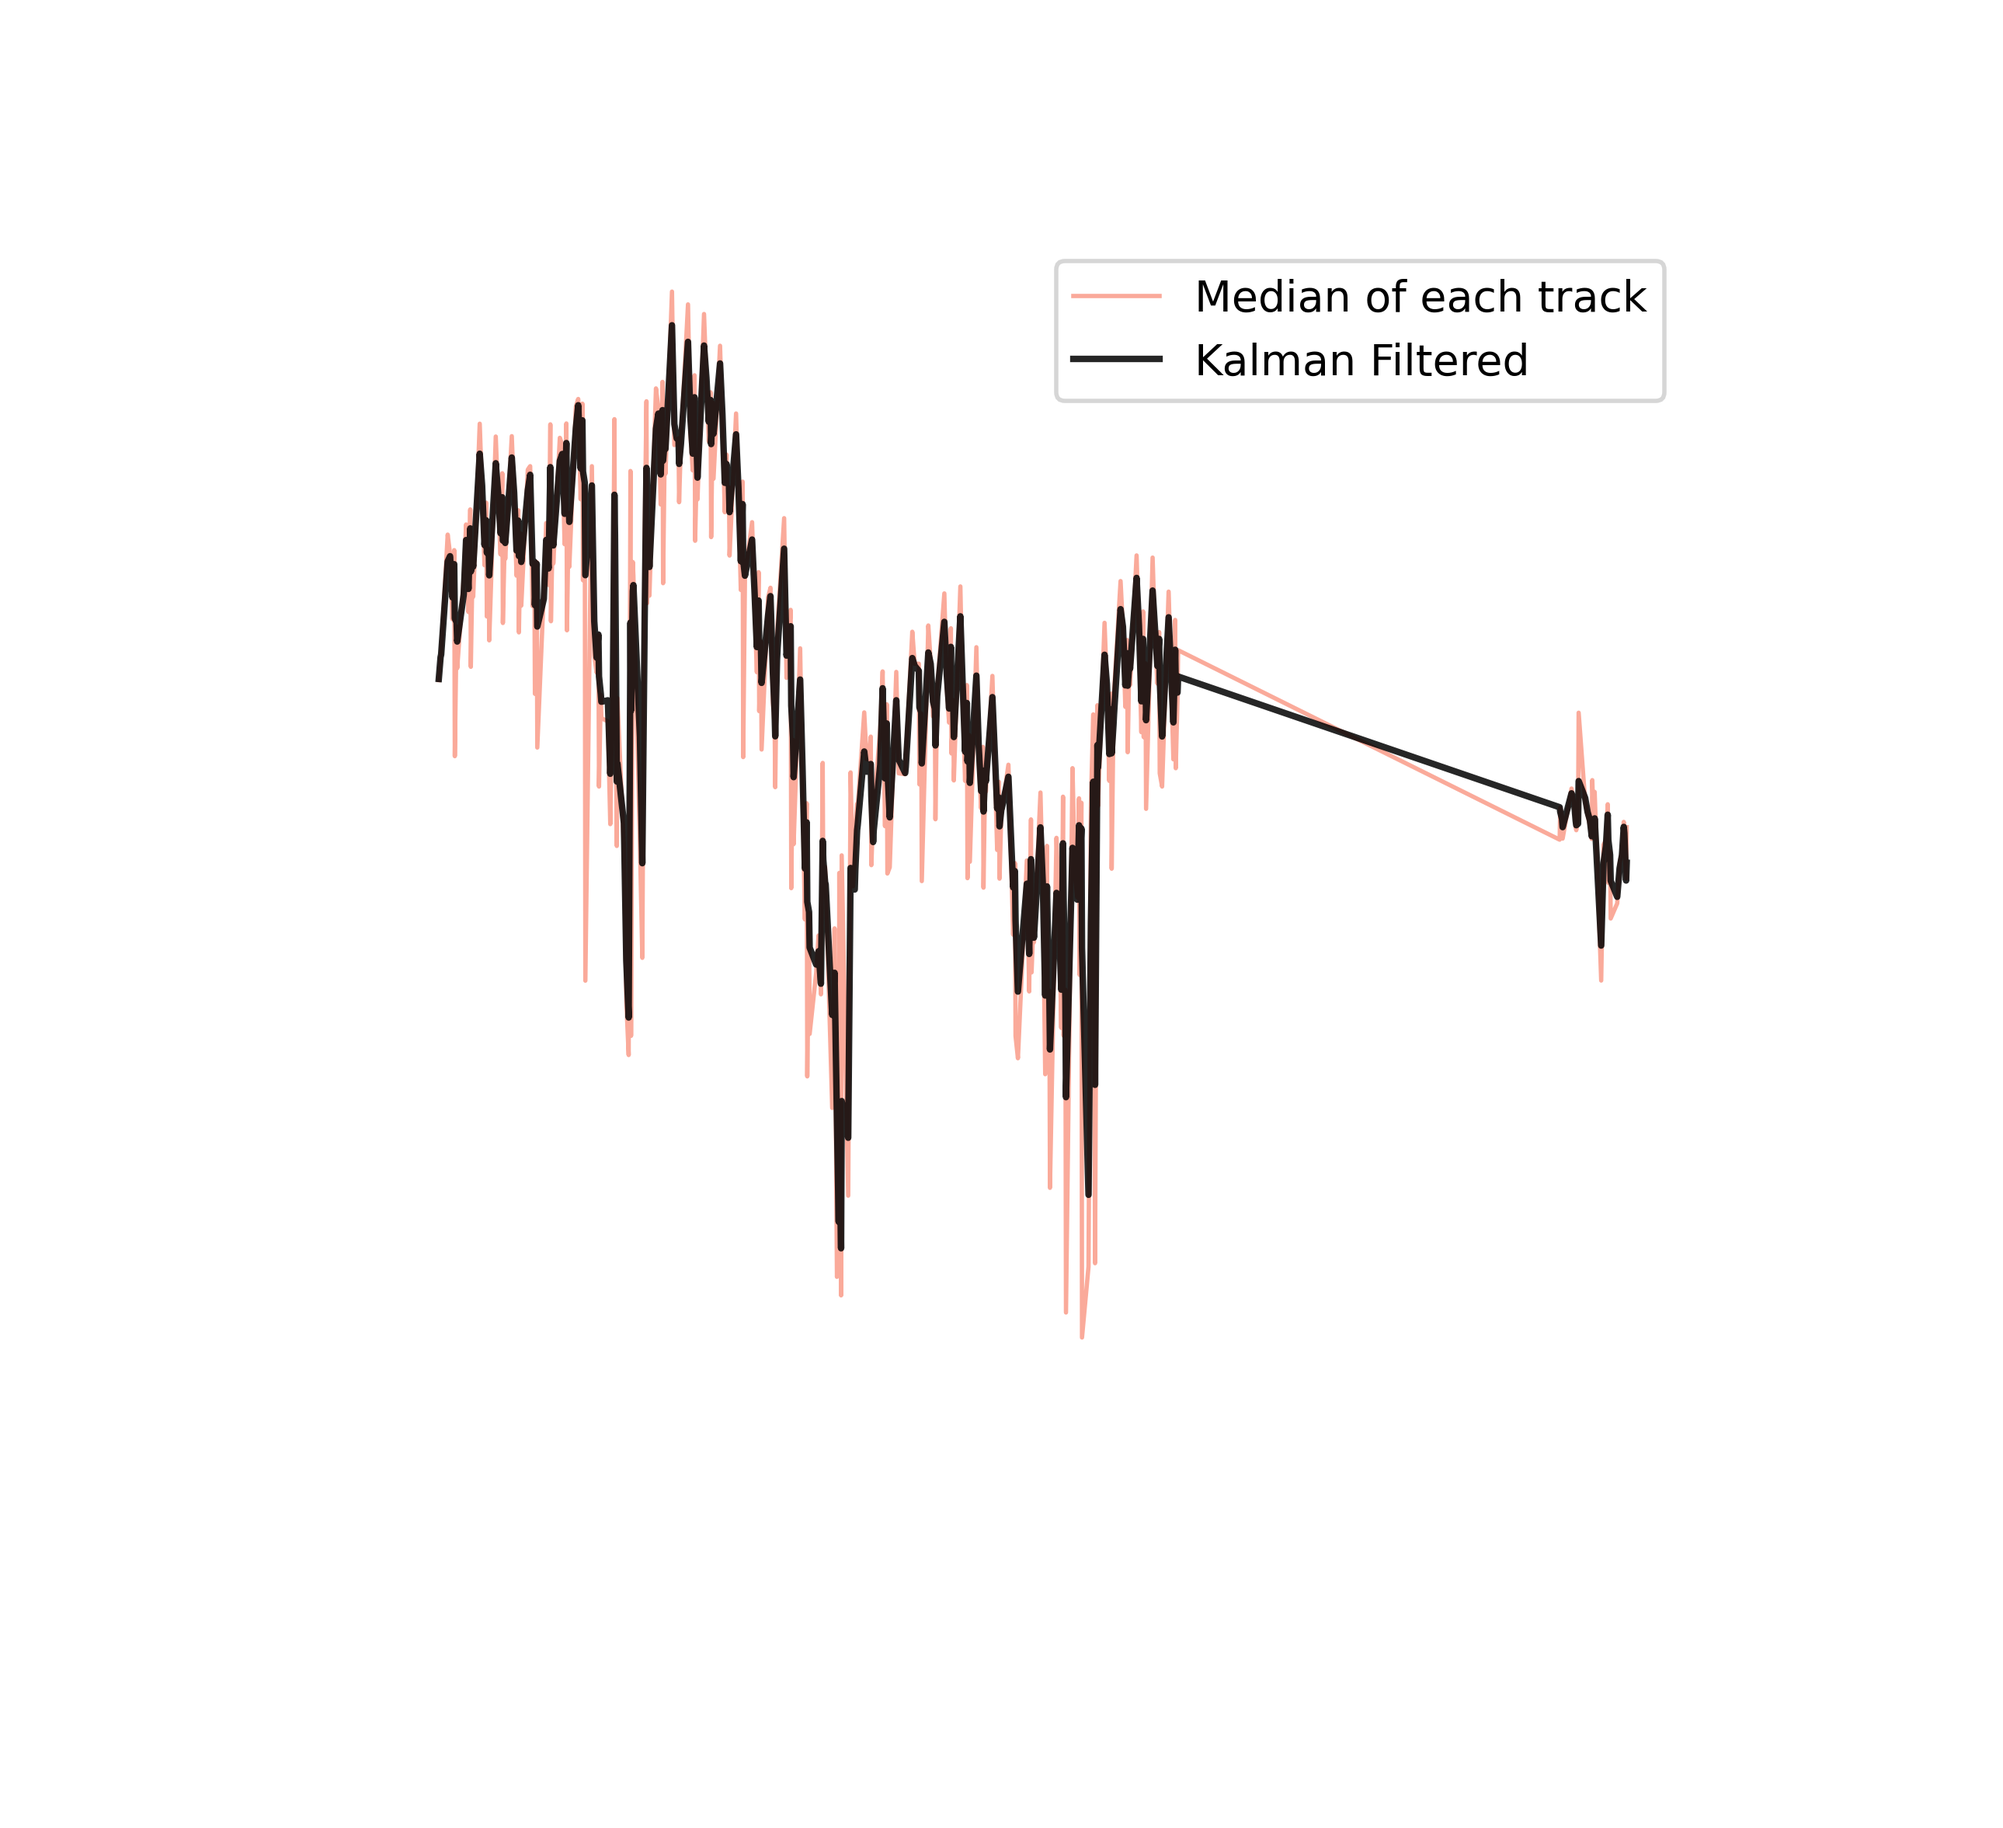
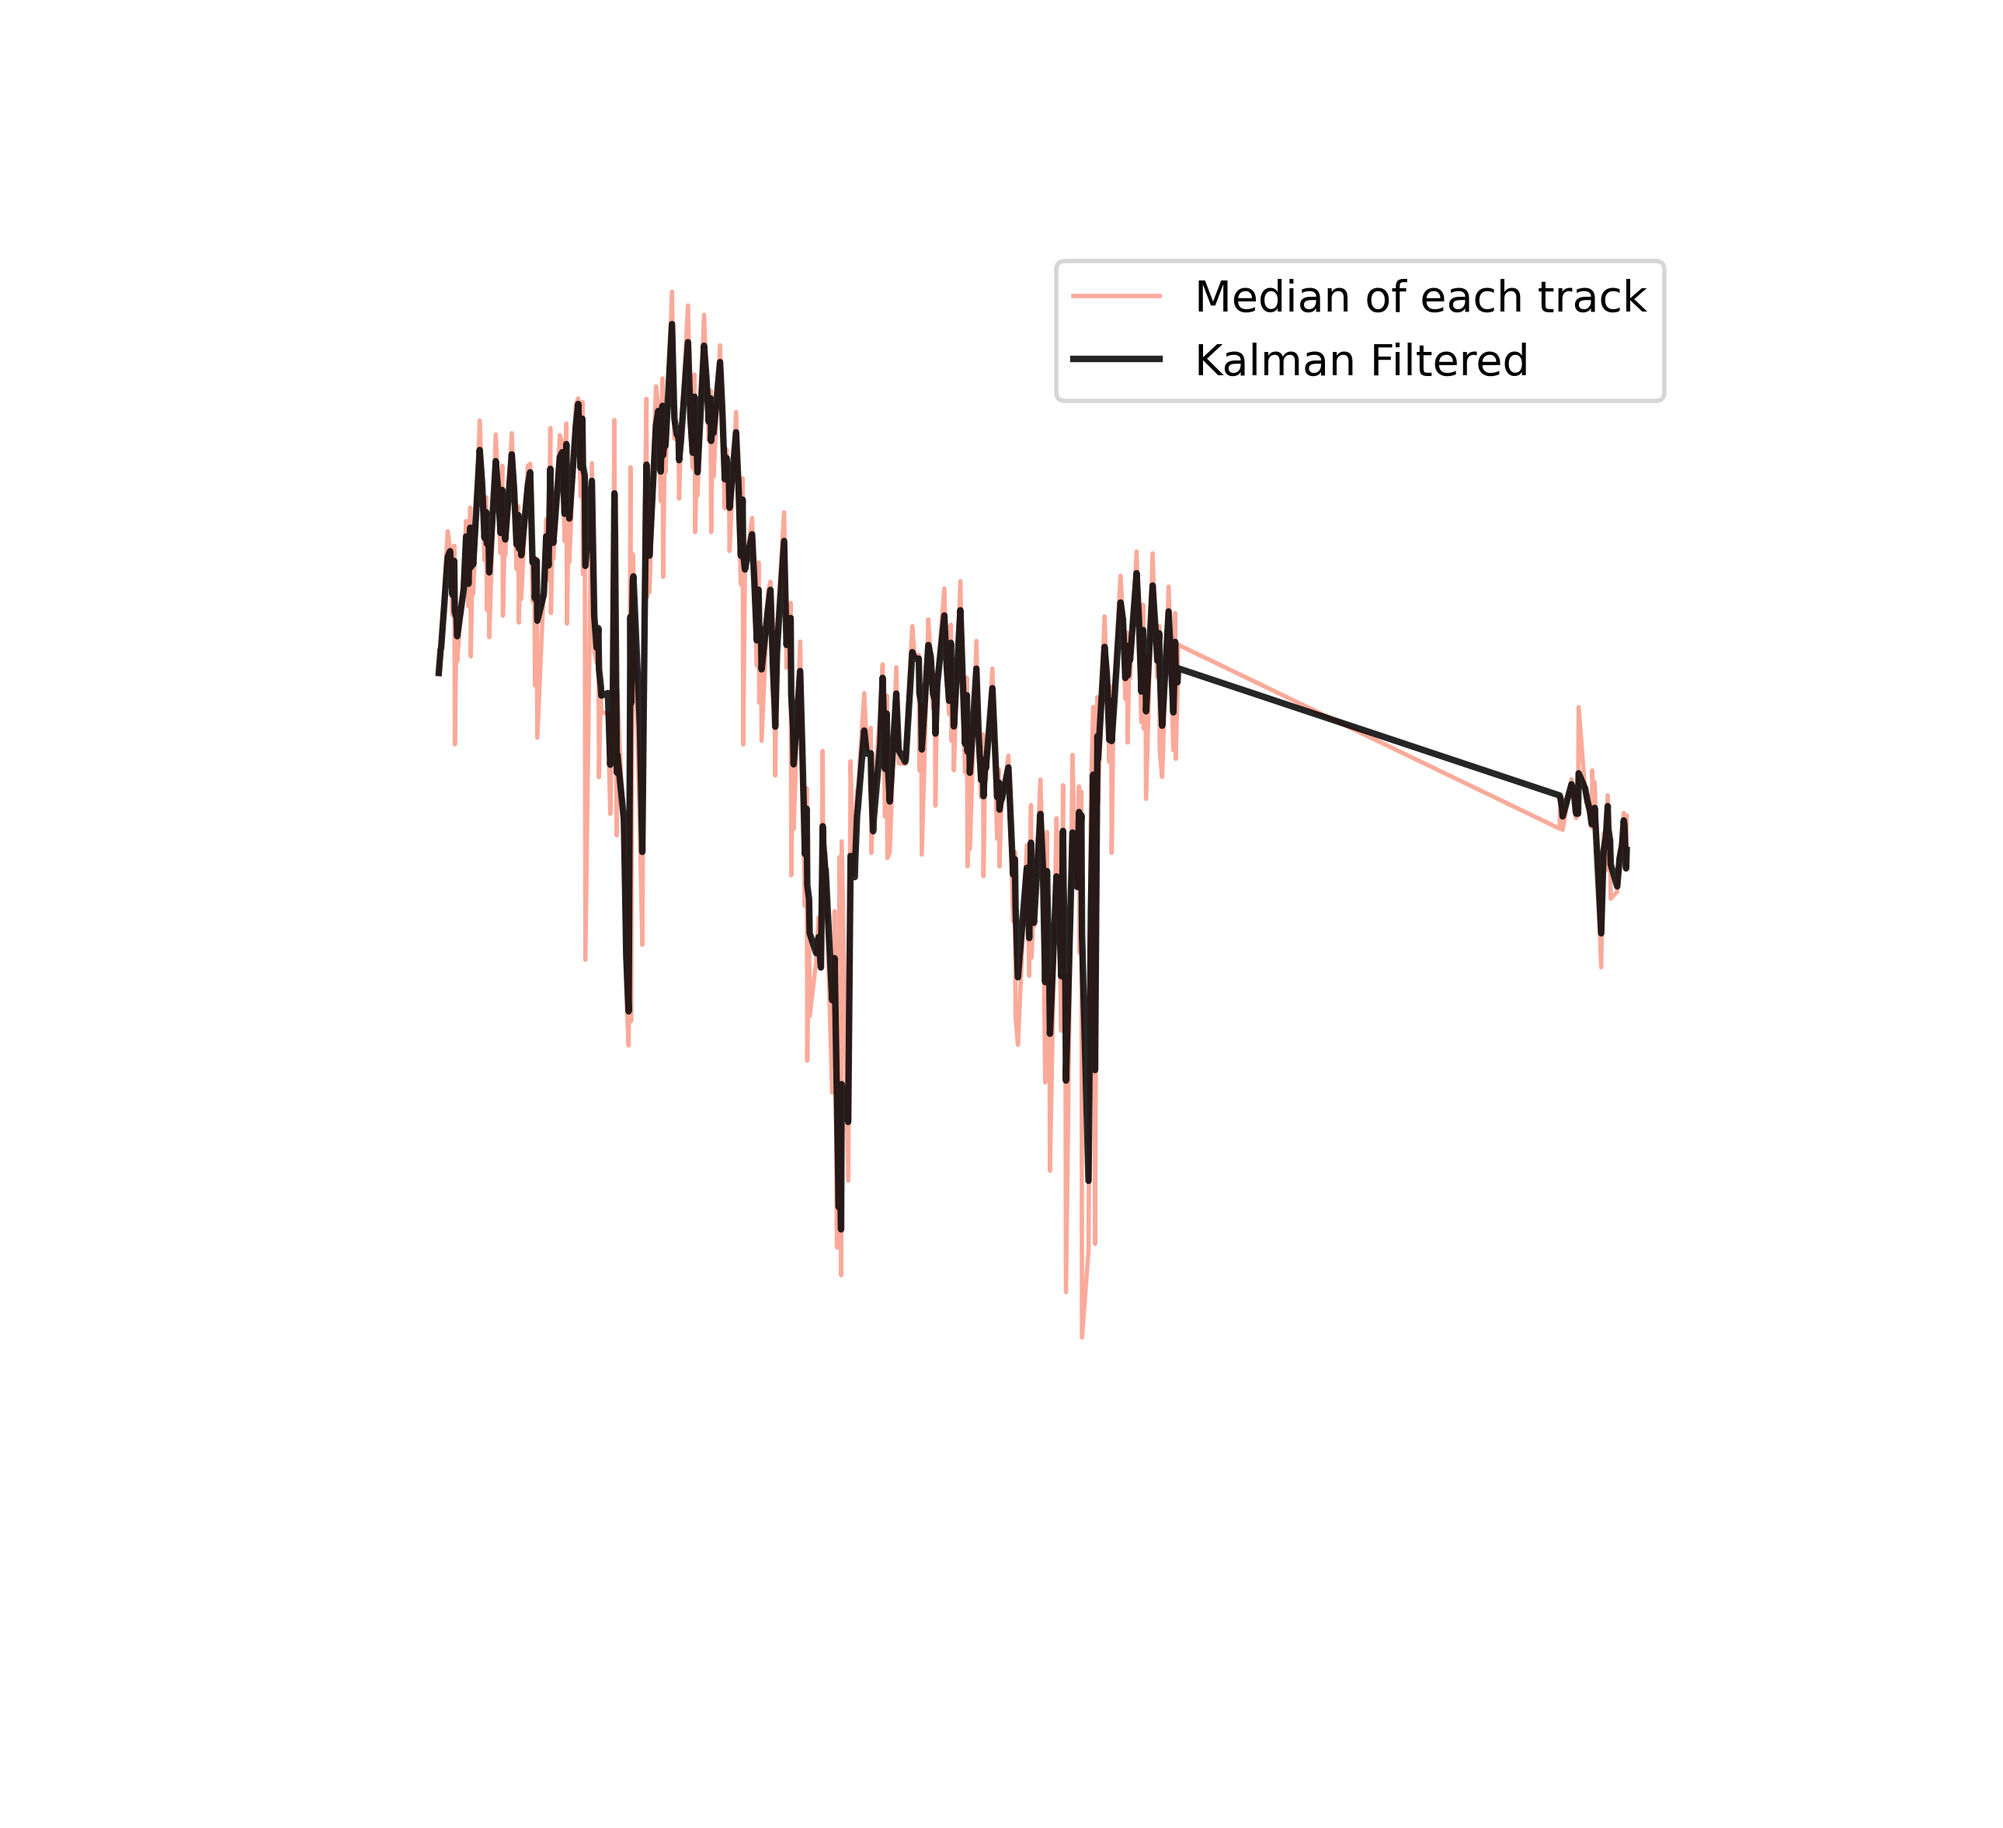
Incorporate outlier-rejected data into figures for presentation

diff --git a/figures_for_presentation.py b/figures_for_presentation.py
@@ -27,7 +27,20 @@ LABEL_SIZE = 14
 TEXT_COLOUR="w"
 
 # Read Sentinel A Lake Winnipeg data
-lake_winnipeg = pd.read_csv("./processed/sentinel_a_lake_winnipeg.csv")
+sentinel_data_A = pd.read_csv("data/Sentinel_3A_water_level_Version0.csv")
+sentinel_data_A = sentinel_data_A.rename(
+    columns={
+        "Date (YYYYMMDD)" : "date",
+        "Lake_name" : "lake_name",
+        "Latitude" : "latitude",
+        "Longitude" : "longitude",
+        "Relaive_orbit" : "relative_orbit",
+        "Lake water level (m)" : "lake_water_level"
+    }
+)
+lake_winnipeg = sentinel_data_A[
+    sentinel_data_A["lake_name"] == "Winnipeg"
+]
 
 ####
 #### FIGURE 1: Sentinel A ground tracks over Lake Winnipeg
@@ -217,6 +230,14 @@ fig.savefig(
 ####
 #### Figure 3: Mean lake water levels on each day
 ####
+# Read in the processed data; reuse the lake_winnipeg name for the data frame
+lake_winnipeg = pd.read_csv("./processed/sentinel_a_lake_winnipeg_remove_outliers.csv")
+
+# Reject outliers
+lake_winnipeg = lake_winnipeg.loc[
+    lake_winnipeg["reject"] == False
+]
+
 baseline_results = lake_winnipeg[
     [
         "date",
@@ -288,7 +309,8 @@ fig.savefig(
 ##### Figure 4: Kalman filtered lake water levels; overlaid on median (figure 3) levels
 #####
 # Just read in the results; don't repeat processing here.
-kalman_filtered = pd.read_csv("./processed/lake_winnipeg_sentinel_a_kalman_filtered.csv")
+kalman_filtered = pd.read_csv("./processed/sentinel_a_lake_winnipeg_kalman_filtered.csv")
+
 # Plot just the median
 fig = plt.figure(figsize=(6, 6))
 ax = fig.add_subplot(111)
